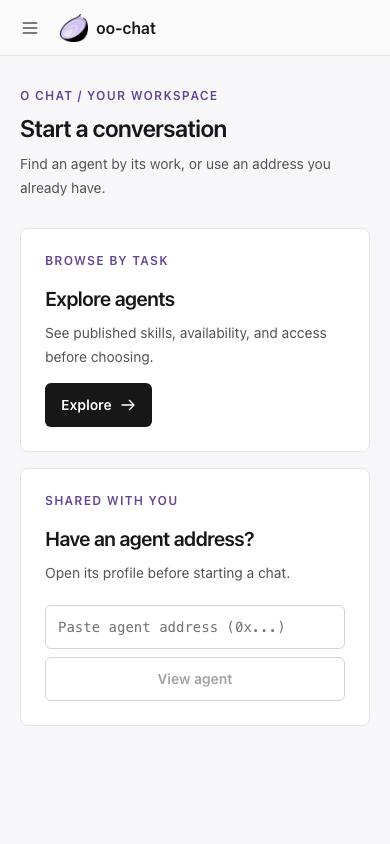
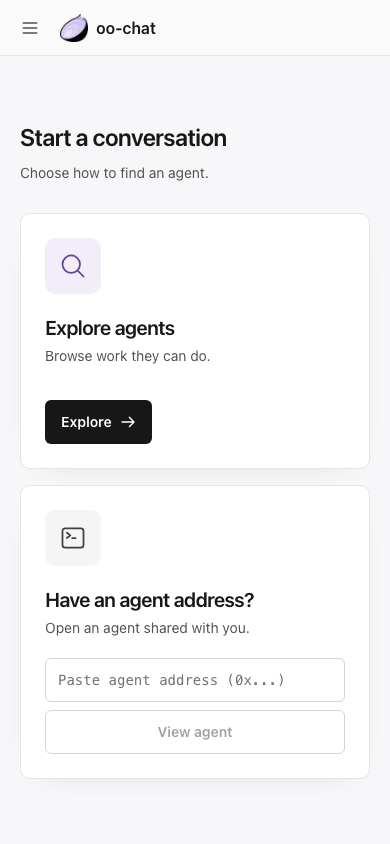
Refine laptop agent workspace hierarchy

diff --git a/app/page.tsx b/app/page.tsx
@@ -4,11 +4,20 @@ import Link from 'next/link'
 import { useState } from 'react'
 import { useRouter } from 'next/navigation'
 import { HiOutlineArrowRight, HiOutlinePlus } from 'react-icons/hi'
+import { HiOutlineChatBubbleLeftRight, HiOutlineCommandLine, HiOutlineDocumentText, HiOutlineGlobeAlt, HiOutlineMagnifyingGlass, HiOutlineRocketLaunch, HiOutlineSparkles } from 'react-icons/hi2'
 import { ChatLayout } from '@/components/chat-layout'
 import { useChatStore, type Conversation } from '@/store/chat-store'
 import { useIdentity } from '@/hooks/use-identity'
-import { useAgentInfo, shortAddress, agentInitial, isAgentAddress, ADDRESS_ERROR, type AgentInfo } from '@/hooks/use-agent-info'
+import { useAgentInfo, shortAddress, isAgentAddress, ADDRESS_ERROR, type AgentInfo } from '@/hooks/use-agent-info'
 import { publicCapabilities } from '@/lib/agent-capabilities'
+
+function capabilityIcon(name: string, className: string) {
+  if (/deploy|publish|release|ship/i.test(name)) return <HiOutlineRocketLaunch aria-hidden="true" className={className} />
+  if (/research|search|find|explore|investigate/i.test(name)) return <HiOutlineMagnifyingGlass aria-hidden="true" className={className} />
+  if (/summari[sz]|document|write|draft|report/i.test(name)) return <HiOutlineDocumentText aria-hidden="true" className={className} />
+  if (/web|browse|site|page/i.test(name)) return <HiOutlineGlobeAlt aria-hidden="true" className={className} />
+  return <HiOutlineSparkles aria-hidden="true" className={className} />
+}
 
 function SavedAgentCard({ address, info, recent }: { address: string; info?: AgentInfo; recent?: Conversation }) {
   const label = info?.name || shortAddress(address)
@@ -16,46 +25,51 @@ function SavedAgentCard({ address, info, recent }: { address: string; info?: Age
   const status = info?.online === true ? 'Online' : info?.online === false ? 'Offline' : 'Checking status'
 
   return (
-    <article className="flex min-w-0 flex-col rounded-xl border border-neutral-200 bg-white p-5">
-      <div className="flex min-w-0 items-start gap-3">
-        <span aria-hidden="true" className="flex h-10 w-10 shrink-0 items-center justify-center rounded-lg bg-identity-50 text-sm font-semibold text-identity-800 ring-1 ring-identity-100">{agentInitial(label, address)}</span>
+    <article className="flex min-w-0 flex-col overflow-hidden rounded-2xl border border-neutral-200 bg-white shadow-[0_8px_32px_-28px_rgba(28,25,34,0.42)] transition-shadow hover:shadow-[0_14px_36px_-28px_rgba(28,25,34,0.5)]">
+      <div className="flex min-w-0 items-start gap-4 px-6 pb-5 pt-6">
+        <span aria-hidden="true" className={`flex h-14 w-14 shrink-0 items-center justify-center rounded-2xl ${info?.online === false ? 'bg-neutral-100 text-neutral-500' : 'bg-identity-50 text-identity-700'} ring-1 ring-inset ring-neutral-200/70`}>{capabilities.length ? capabilityIcon(capabilities[0].name, 'h-7 w-7') : <HiOutlineCommandLine className="h-7 w-7" />}</span>
         <div className="min-w-0 flex-1">
-          <h2 className="truncate text-base font-semibold text-neutral-900">{label}</h2>
-          <p className="mt-0.5 flex items-center gap-1.5 text-xs text-neutral-600">
+          <h2 className="truncate text-lg font-semibold tracking-tight text-neutral-900">{label}</h2>
+          <p className="mt-1 flex items-center gap-1.5 text-xs text-neutral-600">
             <span aria-hidden="true" className={`h-1.5 w-1.5 rounded-full ${info?.online === true ? 'bg-emerald-600' : 'bg-neutral-400'}`} />
             {status}
           </p>
         </div>
-        <Link href={`/${address}`} className="inline-flex min-h-9 shrink-0 items-center gap-1 text-sm font-semibold text-identity-700 hover:underline focus-visible:outline-2 focus-visible:outline-offset-2 focus-visible:outline-identity-700">
+        <Link href={`/${address}`} className="inline-flex min-h-10 shrink-0 items-center gap-1 text-sm font-semibold text-identity-700 hover:underline focus-visible:outline-2 focus-visible:outline-offset-2 focus-visible:outline-identity-700">
           {info?.online === false ? 'View details' : 'Open'} <HiOutlineArrowRight aria-hidden="true" className="h-4 w-4" />
         </Link>
       </div>
-      <div className="mt-5 flex-1">
+      <div className="border-t border-neutral-100 px-6 py-5">
         {capabilities.length ? (
-          <div className="space-y-2.5">
-            {capabilities.map(capability => (
-              <div key={capability.name} className="grid min-w-0 grid-cols-[minmax(0,7rem)_minmax(0,1fr)] gap-3 text-sm">
-                <h3 className="truncate font-semibold text-neutral-900">{capability.title}</h3>
-                <p className="line-clamp-2 leading-5 text-neutral-600">{capability.summary}</p>
-              </div>
-            ))}
+          <div className="space-y-4">
+            {capabilities.map(capability => {
+              return (
+                <div key={capability.name} className="flex min-w-0 items-center gap-3">
+                  {capabilityIcon(capability.name, 'h-5 w-5 shrink-0 text-identity-700')}
+                  <div className="min-w-0 flex-1 sm:flex sm:items-baseline sm:gap-2">
+                    <h3 className="shrink-0 truncate text-sm font-semibold text-neutral-900">{capability.title}</h3>
+                    <p className="truncate text-xs text-neutral-600" title={capability.summary}>{capability.summary}</p>
+                  </div>
+                </div>
+              )
+            })}
           </div>
         ) : info?.online === false ? (
-          <p className="text-sm leading-5 text-neutral-600">This agent is unavailable for messages. View its details for next steps.</p>
+          <p className="text-sm text-neutral-600">Unavailable for messages</p>
         ) : info ? (
           <p className="text-sm leading-5 text-neutral-600">No published task examples yet.</p>
         ) : (
           <p className="text-sm leading-5 text-neutral-600">Loading details…</p>
         )}
       </div>
-      <div className="mt-4 border-t border-neutral-100 pt-3">
-        {capabilities.length > 0 && info?.online === false && <p className="mb-2 text-xs text-neutral-600">Unavailable for messages · View details for next steps</p>}
+      <div className="border-t border-neutral-100 bg-neutral-50/50 px-6 py-3">
         {recent && (
-          <Link href={`/${address}/${recent.sessionId}`} className="block truncate text-sm text-neutral-600 hover:text-identity-700">
-            <span className="font-medium text-neutral-500">Recent</span><span className="mx-2 text-neutral-300">·</span>{recent.title}
+          <Link href={`/${address}/${recent.sessionId}`} className="flex min-h-8 min-w-0 items-center gap-2 text-sm text-neutral-700 hover:text-identity-700">
+            <HiOutlineChatBubbleLeftRight aria-hidden="true" className="h-4 w-4 shrink-0" />
+            <span className="truncate"><span className="font-medium">Recent</span><span className="mx-2 text-neutral-300">·</span>{recent.title}</span>
           </Link>
         )}
-        {!recent && <span className="text-xs text-neutral-500">No conversations yet</span>}
+        {!recent && <span className="text-xs text-neutral-500">{info?.online === false ? 'Host not connected' : 'Ready for a new conversation'}</span>}
       </div>
     </article>
   )
@@ -97,16 +111,15 @@ export default function Home() {
   return (
     <ChatLayout>
       <main className="flex-1 overflow-y-auto bg-workbench px-5 py-8 sm:px-8 sm:py-10">
-        <div className={`mx-auto max-w-5xl ${agents.length ? 'lg:pt-10' : 'lg:flex lg:min-h-full lg:flex-col lg:justify-center lg:pb-12'}`}>
+        <div className={`mx-auto flex min-h-full flex-col justify-center py-8 lg:pb-14 ${agents.length ? 'max-w-4xl' : 'max-w-5xl'}`}>
           <header className="mb-7">
-            <p className="mb-2 text-xs font-semibold uppercase tracking-[0.1em] text-identity-700">O Chat / Your workspace</p>
             <h1 className="text-2xl font-semibold tracking-tight text-neutral-900 sm:text-3xl">{agents.length ? 'Your agents' : 'Start a conversation'}</h1>
-            <p className="mt-2 max-w-xl text-sm leading-6 text-neutral-600">{agents.length ? 'Pick up recent work or open an agent for a new task.' : 'Find an agent by its work, or use an address you already have.'}</p>
+            {!agents.length && <p className="mt-2 max-w-xl text-sm leading-6 text-neutral-600">Choose how to find an agent.</p>}
           </header>
 
           {agents.length ? (
             <>
-              <section aria-label="Your saved agents" className="grid gap-4 md:grid-cols-2">
+              <section aria-label="Your saved agents" className="grid items-start gap-5 md:grid-cols-2">
                 {agents.map(address => {
                   const recent = conversations
                     .filter(conversation => conversation.agentAddress === address)
@@ -114,24 +127,24 @@ export default function Home() {
                   return <SavedAgentCard key={address} address={address} info={infoMap[address]} recent={recent} />
                 })}
               </section>
-              <div className="mt-7 flex flex-wrap items-center gap-3">
-                <Link href="/explore" className="inline-flex min-h-11 items-center gap-2 rounded-lg border border-neutral-300 bg-white px-4 text-sm font-semibold text-neutral-900 hover:bg-identity-50/30">Explore agents <HiOutlineArrowRight aria-hidden="true" className="h-4 w-4" /></Link>
+              <div className="mt-6 flex flex-wrap items-center gap-3">
+                <Link href="/explore" className="inline-flex min-h-11 items-center gap-2 rounded-lg border border-neutral-300 bg-white px-4 text-sm font-semibold text-neutral-900 hover:bg-identity-50/30 md:hidden">Explore agents <HiOutlineArrowRight aria-hidden="true" className="h-4 w-4" /></Link>
                 {!showAddForm && <button onClick={() => setShowAddForm(true)} className="inline-flex min-h-11 items-center gap-2 rounded-lg px-3 text-sm font-medium text-neutral-700 hover:bg-neutral-100"><HiOutlinePlus aria-hidden="true" className="h-4 w-4" /> Add by address</button>}
               </div>
               {showAddForm && <div className="mt-5 max-w-xl border-t border-neutral-200">{addressForm('add-agent-address')}<button type="button" onClick={() => { setShowAddForm(false); setNewAddress(''); setAddressError('') }} className="mt-2 min-h-11 rounded-lg px-3 text-sm font-medium text-neutral-600 hover:bg-neutral-100">Cancel</button></div>}
             </>
           ) : (
             <section aria-label="Ways to find an agent" className="grid gap-4 md:grid-cols-2">
-              <div className="flex min-h-56 flex-col rounded-xl border border-neutral-200 bg-white p-6 sm:p-7">
-                <p className="text-xs font-semibold uppercase tracking-[0.1em] text-identity-700">Browse by task</p>
-                <h2 className="mt-4 text-xl font-semibold tracking-tight text-neutral-900">Explore agents</h2>
-                <p className="mt-2 max-w-sm text-sm leading-6 text-neutral-600">See published skills, availability, and access before choosing.</p>
+              <div className="flex min-h-64 flex-col rounded-2xl border border-neutral-200 bg-white p-6 shadow-[0_8px_32px_-28px_rgba(28,25,34,0.42)] sm:p-7">
+                <span aria-hidden="true" className="flex h-14 w-14 items-center justify-center rounded-2xl bg-identity-50 text-identity-700"><HiOutlineMagnifyingGlass className="h-7 w-7" /></span>
+                <h2 className="mt-5 text-xl font-semibold tracking-tight text-neutral-900">Explore agents</h2>
+                <p className="mt-1 text-sm text-neutral-600">Browse work they can do.</p>
                 <Link href="/explore" className="mt-auto inline-flex min-h-11 w-fit items-center gap-2 rounded-lg bg-neutral-900 px-4 text-sm font-semibold text-white hover:bg-neutral-800">Explore <HiOutlineArrowRight aria-hidden="true" className="h-4 w-4" /></Link>
               </div>
-              <div className="flex min-h-56 flex-col rounded-xl border border-neutral-200 bg-white p-6 sm:p-7">
-                <p className="text-xs font-semibold uppercase tracking-[0.1em] text-identity-700">Shared with you</p>
-                <h2 className="mt-4 text-xl font-semibold tracking-tight text-neutral-900">Have an agent address?</h2>
-                <p className="mt-2 text-sm leading-6 text-neutral-600">Open its profile before starting a chat.</p>
+              <div className="flex min-h-64 flex-col rounded-2xl border border-neutral-200 bg-white p-6 shadow-[0_8px_32px_-28px_rgba(28,25,34,0.42)] sm:p-7">
+                <span aria-hidden="true" className="flex h-14 w-14 items-center justify-center rounded-2xl bg-neutral-100 text-neutral-700"><HiOutlineCommandLine className="h-7 w-7" /></span>
+                <h2 className="mt-5 text-xl font-semibold tracking-tight text-neutral-900">Have an agent address?</h2>
+                <p className="mt-1 text-sm text-neutral-600">Open an agent shared with you.</p>
                 {addressForm('first-agent-address')}
               </div>
             </section>

diff --git a/docs/e2e-evidence/oo-chat-189-home/README.md b/docs/e2e-evidence/oo-chat-189-home/README.md
@@ -1,6 +1,6 @@
 # O Chat home and ConnectOnion 1.8.9 verification
 
-**Date:** 2026-09-29. **Runner:** Chromium / Playwright, desktop 1280 × 800 and phone 390 × 844, light mode, 100% zoom. **App:** production `https://chat.openonion.ai` before the change; local production build at `http://127.0.0.1:3337` after the change. **Host:** official PyPI `connectonion==1.8.9` in an isolated virtual environment and HOME.
+**Date:** 2026-09-29. **Runner:** Chromium / Playwright, laptop 1280 × 720 and phone 390 × 844, light mode, 100% zoom. **App:** production `https://chat.openonion.ai` before the change; local production build at `http://127.0.0.1:3337` after the change. **Host:** official PyPI `connectonion==1.8.9` in an isolated virtual environment and HOME.
 
 ## Reproduction and correction
 
@@ -21,17 +21,17 @@ References inspected: P05 Raycast Store directory for capability and action hier
 
 | Question | Verdict | Visible evidence |
 | --- | --- | --- |
-| Did we achieve the intended effect? | Reached for Home | The directory card disappeared from first use; saved Agents have separate capability rows and recent-work context. |
-| Is the relevant craft comparable? | Partial | The saved cards now offer consistent name, skill, status, and action alignment. O Chat has no published Agent artwork field, so the letter badge remains a fallback. |
-| Largest remaining gap | Minor | With only one or two saved Agents, unused workspace remains below the cards; no unrelated filler was added. |
+| Did we achieve the intended effect? | Reached for Home | The directory card disappeared from first use; saved Agents have distinct work icons, capability rows, status, and recent-work context. |
+| Is the relevant craft comparable? | Partial | Agent cards have a clear visual hierarchy and purposeful boundaries. The references do not show an equivalent full saved-Agent Home, so whole-screen equivalence remains unknown. |
+| Largest remaining gap | Minor | Agent icons derive from actual published capabilities, not owner-provided artwork; unknown capabilities use a generic icon. Natural empty space remains when only a few Agents are saved. |
 
 ## Functional checks
 
 - `next build --webpack` passed. The default Turbopack build could not create its CSS worker port in this local sandbox; it was not a code failure.
 - Focused ESLint on modified source and tests passed. The unit suite passed 229/230 tests on the first run; the one Host-process test timed out after 10 seconds under restricted local process conditions and passed on an isolated rerun with local process access. The Home agent-picker browser test also passed.
-- Browser tests: 20 of 21 in the initial `explore/offline/bad-address` run passed; one new test had an ambiguous locator because its fixture gave two Agents the same profile. The fixture was corrected and passed on rerun. The final `explore/offline` run passed 10/10; the final saved-Agent regression passed 1/1.
+- Browser tests: 20 of 21 in the initial `explore/offline/bad-address` run passed; one new test had an ambiguous locator because its fixture gave two Agents the same profile. The fixture was corrected and passed on rerun. The final visual iteration's `explore/offline` run passed 10/10 against a production build.
 - The first-use browser test counted zero directory requests on Home and one after clicking Explore. The offline tests checked the disabled composer and actionable explanation. Desktop and phone screenshots were inspected for hierarchy and overflow.
 
 ## Independent AI design critique
 
-The first screenshot review returned **revise**: content was top-heavy, cards repeated passive copy, and phone cards pushed Explore too low. The second iteration centered first use and put two real published skills and recent work into compact Agent cards. The reviewer then identified an offline action conflict. The final desktop and phone screenshots received **pass** for the scoped Home design after the offline card changed from “Open” to “View details.” This is an AI critique of the inspected states, not a claim about every O Chat route.
+The first screenshot review returned **revise**: content was top-heavy, cards repeated passive copy, and phone cards pushed Explore too low. The second iteration centered first use and put real published skills and recent work into Agent cards; an offline action conflict was corrected. After reviewing the resulting laptop screenshot against the user's updated concern, the independent AI reviewer withdrew its earlier visual pass: two similarly shaped text cards still felt empty. The next version replaced letter avatars with capability-derived icons, shortened labels, and made recent work an obvious link. Review again returned **revise** because a one-skill card was stretched to the two-skill card's height. The final version uses content-height cards in a narrower centered workspace, and removes the duplicate desktop Explore action. Independent AI review returned **pass** for this scoped 1280px saved-Agent Home: Agent identity, state, and next action are distinguishable without filler content. This is not a claim about every O Chat route.

diff --git a/docs/DESIGN_SYSTEM.md b/docs/DESIGN_SYSTEM.md
@@ -43,7 +43,7 @@ This identity can be shared with OpenOnion websites, docs, and product surfaces.
 | Surface | What the eye should find first | Composition |
 | --- | --- | --- |
 | First use | A clear choice between browsing and opening a shared address | Two distinct action cards; no directory request or public Agent preview until Explore is opened |
-| Your agents | A saved Agent's work and the way back to it | Separate Agent cards with published capabilities, status, and recent conversation when present |
+| Your agents | A saved Agent's work and the way back to it | Separate, content-height Agent cards with capability-derived pictograms, published tasks, status, and recent conversation when present |
 | Explore | A real agent task and the way to start | Search, useful Agent profiles, availability, access, and direct profile links |
 | Agent profile | Capability, required input, expected output, availability and access | One clear identity header, task content, one primary action |
 | Conversation | Latest exchange, current work, next user action | Stable agent context, readable transcript, anchored composer |
@@ -86,6 +86,7 @@ These are design targets, not a claim that existing `brand-*` utilities already 
 - Use a list/detail layout when users compare agents or sessions; use a focused reading column for conversation. Sidebars are navigation, not collections of competing cards. Keep the composer anchored and protect room for the transcript.
 - Spacing scale: 4, 8, 12, 16, 24, 32 px. Choose spacing to express relationships: tighter within a control or item, wider between distinct sections. No universal section padding or fixed percentage of empty space.
 - Draw a border when it clarifies a surface, decision, or grouping. Avoid nesting bordered cards inside bordered cards. Use elevation for overlays; avoid floating every ordinary item.
+- On a sparse saved-Agent desktop, center a bounded group of cards and let each card follow its real content height. Do not stretch a one-task Agent to match a two-task Agent or repeat the sidebar's Explore action in the workspace. A capability pictogram may help distinguish Agents, but it must derive from published work and must not imply trust, permission, or an owner-provided avatar.
 - Radius and shadow should be consistent by component role: compact controls, panels, overlays. Do not change radius just to make a screen feel “designed”.
 - At desktop, tablet, and phone widths, preserve the same task order while changing composition. A phone should expose the next action without horizontal scrolling or tiny targets.
 
